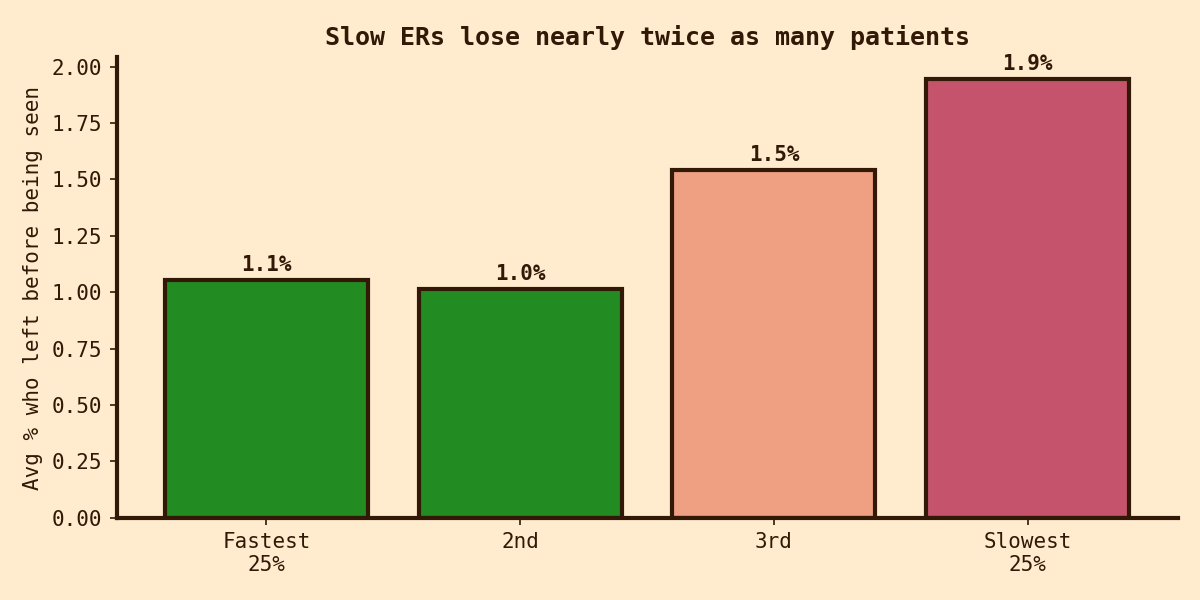
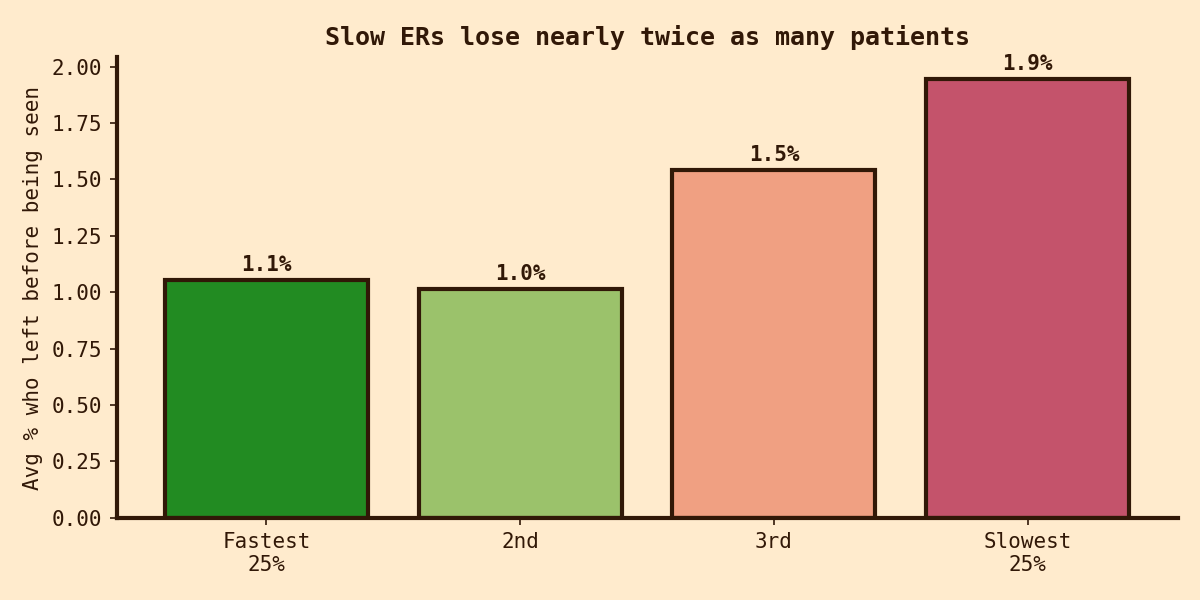
Fix ER chart colors and legend

Changed region(s): [[0.3392, 0.48, 0.5242, 0.87]]

diff --git a/projects/texas-er-wait-times/code/er_analysis.py b/projects/texas-er-wait-times/code/er_analysis.py
@@ -141,7 +141,8 @@ def chart_data_availability(df, path=GRAPHS_DIR / "er_chart_missing.png"):
         ax.text(i, u / 2, str(u), ha="center", va="center", color=PARCHMENT, fontweight="bold")
     ax.set_ylabel("Texas hospitals")
     ax.set_title("Not every hospital reports every number")
-    ax.legend(frameon=False)
+    ax.set_ylim(0, 480)
+    ax.legend(frameon=False, loc="upper center", ncol=2)
     style(ax)
     plt.tight_layout(); plt.savefig(path, dpi=150); plt.close()
 
@@ -185,7 +186,7 @@ def chart_lwbs(er, path=GRAPHS_DIR / "er_chart_lwbs.png"):
     w["q"] = pd.qcut(w["OP_18b"], 4, labels=["Fastest\n25%", "2nd", "3rd", "Slowest\n25%"])
     means = w.groupby("q", observed=True)["OP_22"].mean()
     fig, ax = plt.subplots(figsize=(8, 4))
-    colors = [GREEN, GREEN, PEACH, "#C4536B"]
+    colors = [GREEN, "#9BC26B", PEACH, "#C4536B"]
     ax.bar(means.index.astype(str), means.values, color=colors, edgecolor=WOOD, linewidth=2)
     for i, v in enumerate(means.values):
         ax.text(i, v + 0.04, f"{v:.1f}%", ha="center", color=WOOD, fontweight="bold")
@@ -197,7 +198,7 @@ def chart_lwbs(er, path=GRAPHS_DIR / "er_chart_lwbs.png"):
 def chart_houston(df, path=GRAPHS_DIR / "er_chart_houston.png"):
     """Dot plot: every Harris County hospital, colored by star rating."""
     h = df[(df["County/Parish"] == "HARRIS") & df["OP_18b"].notna()].sort_values("OP_18b")
-    star_colors = {5: GOLD, 4: GREEN, 3: TAN, 2: PEACH, 1: "#C4536B"}
+    star_colors = {5: GOLD, 4: GREEN, 3: "#6F8FB5", 2: PEACH, 1: "#C4536B"}
     fig, ax = plt.subplots(figsize=(8, 9))
     y = np.arange(len(h))
     med = h["OP_18b"].median()
